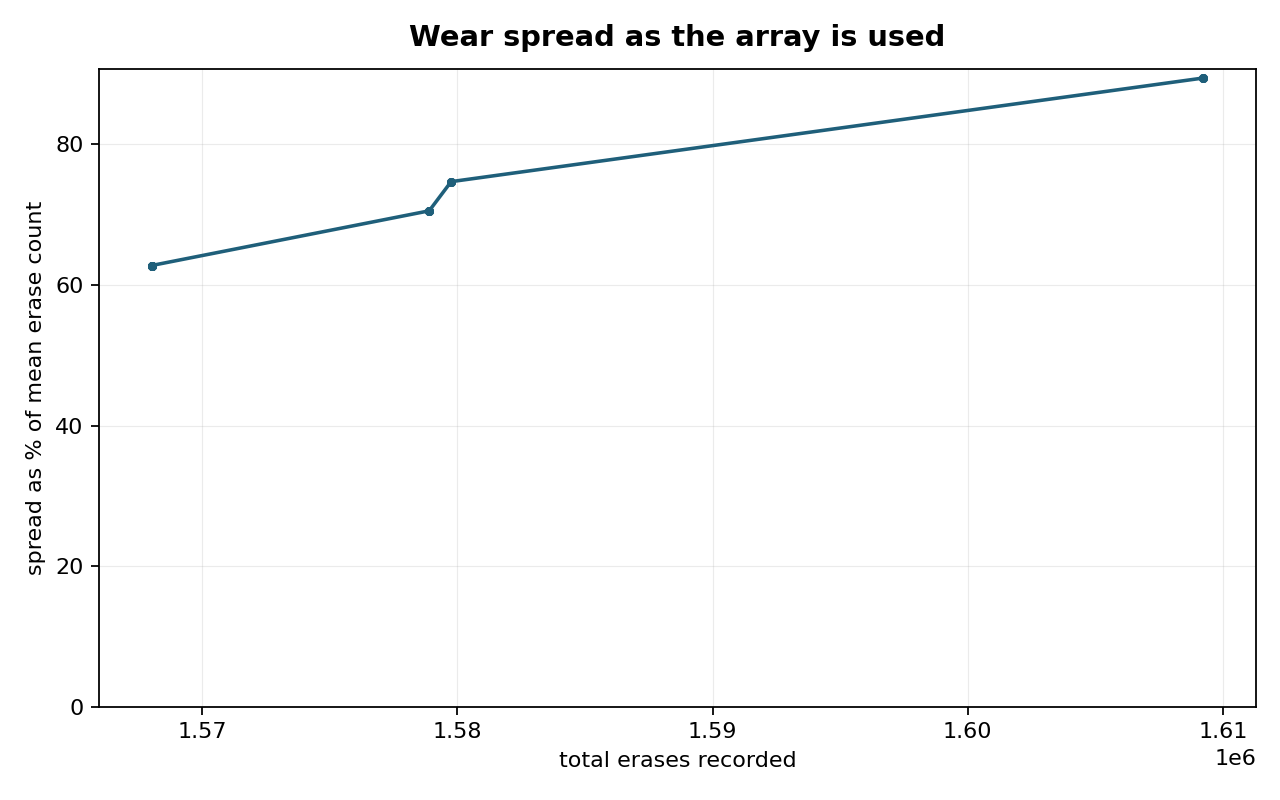
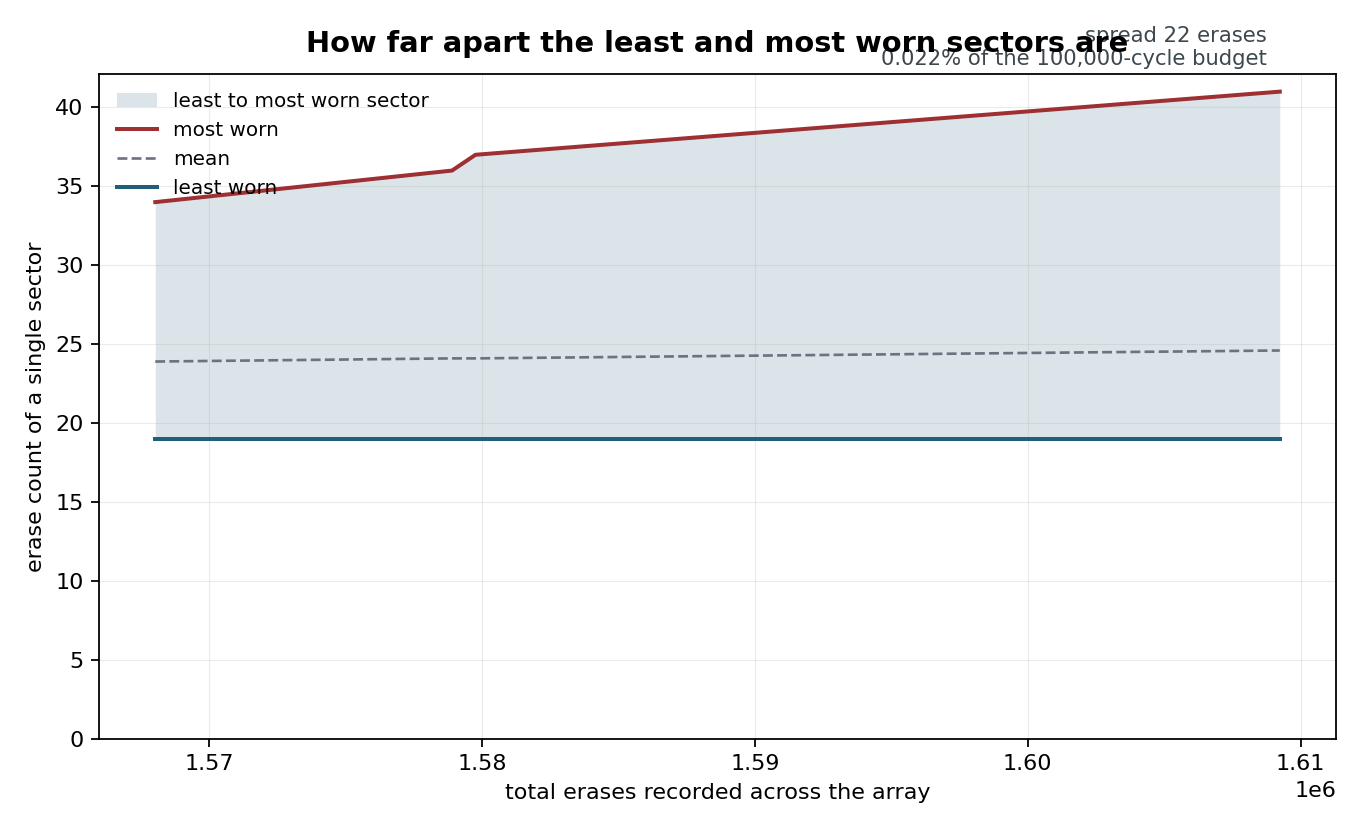
plot: time to fill the flash, and wear spread in erases not percent
TIME TO FILL is the question the fill curve was standing in for, and it is
derivable from the rate sweep -- pool / rate at each interval, no new
measurement. It assumes a working set large enough that the scanner never
runs short of candidates, which is the case that matters: a fill that stalls
for want of candidates is measuring scarcity, not pacing. The fill curve
stays, since it shows the SHAPE and is what K checks for monotonicity.

WEAR SPREAD is now the least- and most-worn sector as absolute erase counts
with the band between them, rather than spread as a percentage of the mean.
"The worst sector is N erases ahead of the best, against a 100,000-cycle
budget" is a number you can act on; "spread is 42% of mean" is not, and it
moves for reasons that have nothing to do with levelling -- it fell from 81%
to 42% largely because the mean grew.

diff --git a/scripts/plot_selftest.py b/scripts/plot_selftest.py
@@ -149,6 +149,24 @@ if r:
     fig.tight_layout(); fig.savefig(f"{OUT}/selftest-promote-rate.png", dpi=160)
     made.append("promote-rate")
 
+    # Same data, the question actually asked: how long to fill the flash.
+    # pool / rate, so it assumes a working set large enough that the scanner
+    # never runs short of candidates -- which is the case that matters, since
+    # a fill that stalls for want of candidates is not measuring the pacing.
+    POOL = 65536
+    fig, ax = plt.subplots(figsize=(8.5, 5.2))
+    mins = [POOL / m / 60 for m in me]
+    ax.plot(iv, mins, "o-", color=C_DRAM, lw=2, ms=7)
+    for x, y in zip(iv, mins):
+        ax.annotate(f"{y:.0f} min", (x, y), textcoords="offset points",
+                    xytext=(0, 9), ha="center", fontsize=8.5, color="#3d474e")
+    d24 = next((POOL / m / 60 for i_, m in zip(iv, me) if abs(i_ - 24) < 6), None)
+    ax.set_ylim(bottom=0)
+    frame(ax, f"Time to fill all {POOL:,} sectors",
+          "promotion interval (ms between promotions)", "minutes")
+    fig.tight_layout(); fig.savefig(f"{OUT}/selftest-time-to-fill.png", dpi=160)
+    made.append("time-to-fill")
+
 r = rows("fill-curve.csv")
 if r:
     fig, ax = plt.subplots(figsize=(8, 5))
@@ -197,17 +215,32 @@ if r:
 
 r = rows("wear-history.tsv", "\t")
 if r and len(r) > 2:
-    ok = [x for x in r if x.get("mean", "?") not in ("?", "", None)]
-    if len(ok) > 2:
-        tot = [float(x["total"]) for x in ok]
-        rel = [float(x["spread"]) / float(x["mean"]) * 100 for x in ok]
-        fig, ax = plt.subplots(figsize=(8, 5))
-        ax.plot(tot, rel, "o-", color=C_DRAM, lw=1.6, ms=3)
+    ok_ = [x for x in r if x.get("min", "?") not in ("?", "", None)
+           and x.get("max", "?") not in ("?", "", None)]
+    if len(ok_) > 2:
+        tot = [float(x["total"]) for x in ok_]
+        mn = [float(x["min"]) for x in ok_]
+        mx = [float(x["max"]) for x in ok_]
+        mean = [float(x["mean"]) for x in ok_]
+        fig, ax = plt.subplots(figsize=(8.5, 5.2))
+        # Absolute erase counts, not a ratio of the mean. "The worst sector is
+        # N erases ahead of the best" is a number you can hold against the
+        # 100,000-cycle budget; "spread is 42% of mean" is not.
+        ax.fill_between(tot, mn, mx, color=C_DRAM, alpha=.16, lw=0,
+                        label="least to most worn sector")
+        ax.plot(tot, mx, "-", color=C_NOR, lw=1.8, label="most worn")
+        ax.plot(tot, mean, "-", color=C_MODEL, lw=1.2, ls="--", label="mean")
+        ax.plot(tot, mn, "-", color=C_DRAM, lw=1.8, label="least worn")
+        gap = mx[-1] - mn[-1]
+        ax.annotate(f"spread {gap:.0f} erases\n{gap/100000*100:.3f}% of the 100,000-cycle budget",
+                    (tot[-1], mx[-1]), ha="right", va="bottom", fontsize=9.5,
+                    color="#3d474e", xytext=(-6, 10), textcoords="offset points")
         ax.set_ylim(bottom=0)
-        frame(ax, "Wear spread as the array is used", "total erases recorded",
-              "spread as % of mean erase count",
-              "Falling means levelling is tightening. Buckets are 1000 wide, so this is FIFO round-robin, not bucket order.")
-        fig.tight_layout(); fig.savefig(f"{OUT}/selftest-wear-spread.png", dpi=160); made.append("wear-spread")
+        frame(ax, "How far apart the least and most worn sectors are",
+              "total erases recorded across the array", "erase count of a single sector")
+        ax.legend(fontsize=9, frameon=False, loc="upper left")
+        fig.tight_layout(); fig.savefig(f"{OUT}/selftest-wear-spread.png", dpi=160)
+        made.append("wear-spread")
 
 print("plotted:", ", ".join(made) if made else "nothing found")
 for m in made: print(f"  {OUT}/selftest-{m}.png")
